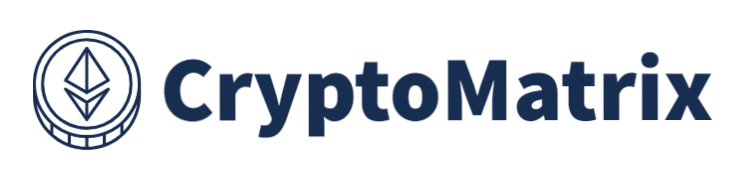
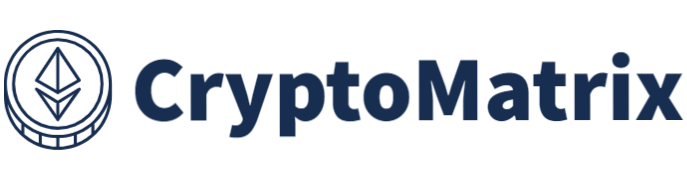
Home page complete

Changed region(s): [[0.0, 0.1685, 1.0, 0.8427]]

diff --git a/cryptomatrix/src/components/Home.js b/cryptomatrix/src/components/Home.js
@@ -1,10 +1,35 @@
 import React from "react";
+import mwallet from "../CryptoMatrix.png";
+import { Button } from "antd";
+import { useNavigate } from "react-router-dom";
+
+
+
 
 function Home() {
+
+  const navigate = useNavigate();
 
   return (
     <>
       <div className="content">
+        <img src={mwallet} alt="logo" className="frontPageLogo" />
+        <h2> Hey There 👋 </h2>
+        <h4 className="h4"> Welcome to your Web3 Wallet</h4>
+        <Button
+          onClick={() => navigate("/yourwallet")}
+          className="frontPageButton"
+          type="primary"
+        >
+          Create A Wallet
+        </Button>
+        <Button
+          onClick={() => navigate("/recover")}
+          className="frontPageButton"
+          type="default"
+        >
+          Sign In With Seed Phrase
+        </Button>
       </div>
     </>
   );

diff --git a/cryptomatrix/src/App.css b/cryptomatrix/src/App.css
@@ -6,11 +6,16 @@
   align-items: center;
   display: flex;
   flex-direction: column;
-  background-color: aqua;
+  background-color: #c0ebff;
 }
 
 .frontPageLogo {
-  width: 80%;
+  width: 95%;
+  margin-top: 5px;
+  margin-right: 5px;
+  display: flex;
+  align-items: center;
+  justify-content: center;
 }
 
 .frontPageButton {
@@ -70,13 +75,15 @@ header {
 .content {
   text-align: center;
   width: 350px;
-  height: 520px;
+  height: 450px;
+  top: 80px;
+  left: 0;
   overflow-y: auto;
-  justify-content: flex-start;
+  justify-content: space-between;
   align-items: center;
   display: flex;
   flex-direction: column;
-  position: relative;
+  position: absolute;
 }
 
 .mnemonic {

diff --git a/cryptomatrix/src/App.js b/cryptomatrix/src/App.js
@@ -35,6 +35,9 @@ function App() {
           ]}
           className="dropdown"
         ></Select>
+        <Routes>
+          <Route path="/" element={<Home/>}/>;
+        </Routes>
       </header>
     </div>
   );
